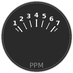
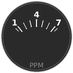
PPM: needles drawn in front; wait after ffmpeg gives up; clearer at 720p
Enigma2 draws plain ePixmaps after all named widgets, so the housing and
screw covered the needles: all four layers are now named widgets, added
bottom to top. ffmpeg's errors go to /tmp/lynx-ppm.log and a failed start
(no sound track) waits 30 s instead of retrying every few seconds. The
box's menus are 1280x720, so the 73 px meter now shows 1, 4 and 7 only,
in bigger numbers.

Claude-Session: https://claude.ai/code/session_01C3QWPBaQSAAeD4ECirSsdL

diff --git a/plugin/LynxRepeaters/screens.py b/plugin/LynxRepeaters/screens.py
@@ -21,6 +21,7 @@ from __future__ import absolute_import, division, print_function
 from .log import log
 
 import re
+import sys
 import time
 
 from enigma import eServiceReference, getDesktop
@@ -176,19 +177,33 @@ class PPMMeter(object):
     def __init__(self):
         from .ppm import Reader
         self.reader = Reader()
-        self.proc, self.url, self.thread = None, None, None
+        self.proc, self.url, self.thread, self.failed_at = None, None, None, None
         import threading
         self.lock = threading.Lock()
+
+    RETRY_S = 30                         # after ffmpeg gives up (no sound track, say)
+    ERRORS = "/tmp/lynx-ppm.log"
 
     def start(self, url):
         if url == self.url and self.proc and self.proc.poll() is None:
             return
+        if url == self.url and self.proc and self.proc.poll() is not None:
+            # It ended by itself: say why once, then wait before trying again.
+            if not self.failed_at:
+                self.failed_at = time.time()
+                log("PPM: ffmpeg stopped (%s); trying again in %d s" % (self._last_error(), self.RETRY_S))
+                with self.lock:
+                    self.reader.rest()
+            if time.time() - self.failed_at < self.RETRY_S:
+                return
         self.stop()
+        self.failed_at = None
         import subprocess
         from .ppm import command
         try:
-            self.proc = subprocess.Popen(command(url), stdout=subprocess.PIPE, stderr=open(os.devnull, "w"),
-                                         preexec_fn=os.setsid)
+            with open(self.ERRORS, "w") as errors:
+                self.proc = subprocess.Popen(command(url), stdout=subprocess.PIPE, stderr=errors,
+                                             preexec_fn=os.setsid)
         except (OSError, ValueError) as e:
             log("PPM: could not start ffmpeg: %s" % e)
             self.proc = None
@@ -207,8 +222,16 @@ class PPMMeter(object):
             with self.lock:
                 self.reader.line(raw.decode("latin-1"))
 
+    def _last_error(self):
+        try:
+            with open(self.ERRORS) as f:
+                lines = [l.strip() for l in f if l.strip()]
+            return lines[-1][:160] if lines else "no message"
+        except (IOError, OSError):
+            return "no message"
+
     def stop(self):
-        proc, self.proc, self.url = self.proc, None, None
+        proc, self.proc, self.url, self.failed_at = self.proc, None, None, None
         if proc and proc.poll() is None:
             import signal as sig
             try:
@@ -853,10 +876,14 @@ def _bar_skin(with_ppm):
     x = 150 if with_ppm else 40
     ppm = ""
     if with_ppm:
-        ppm = ('<ePixmap position="24,10" size="110,110" alphatest="blend" pixmap="%s"/>'
+        # All four layers are named widgets: Enigma2 creates named widgets in
+        # the order the screen adds them, and plain ePixmaps after all of
+        # them, on top (Screen.createGUIScreen). As ePixmaps the housing and
+        # screw hid the needles (1 Nov 2026).
+        ppm = ('<widget name="ppm_housing" position="24,10" size="110,110" alphatest="blend" pixmap="%s"/>'
                '<widget name="ppm_green" position="24,10" size="110,110" alphatest="blend" pixmaps="%s"/>'
                '<widget name="ppm_red" position="24,10" size="110,110" alphatest="blend" pixmaps="%s"/>'
-               '<ePixmap position="24,10" size="110,110" alphatest="blend" pixmap="%s"/>' % (
+               '<widget name="ppm_screw" position="24,10" size="110,110" alphatest="blend" pixmap="%s"/>' % (
                    PPM_PIXMAPS["housing"], ",".join(PPM_PIXMAPS["green"]), ",".join(PPM_PIXMAPS["red"]),
                    PPM_PIXMAPS["screw"]))
     return _scale("""
@@ -884,7 +911,9 @@ class LynxBar(Screen):
     def __init__(self, session, entry, owner=None):
         # The PPM's widgets only when it is shown: its own skin name, so the
         # two layouts are never mixed up.
-        self.with_ppm = bool(cfg.ppm.value and PPM_PIXMAPS)
+        # Python 3 only: the layers rely on the screen keeping the order they
+        # were added in, which Python 2's dictionaries do not.
+        self.with_ppm = bool(cfg.ppm.value and PPM_PIXMAPS and sys.version_info >= (3, 7))
         if self.with_ppm:
             self.skin, self.skinName = BAR_SKIN_PPM, "LynxBarPPM"
         Screen.__init__(self, session)
@@ -926,8 +955,11 @@ class LynxBar(Screen):
         # The PPM: needles at rest until the sound is metered.
         self.meter, self.ppm_shown = None, (None, None)
         if self.with_ppm:
+            from Components.Pixmap import Pixmap
+            self["ppm_housing"] = Pixmap()          # bottom to top, in this order
             self["ppm_green"] = MultiPixmap()
             self["ppm_red"] = MultiPixmap()
+            self["ppm_screw"] = Pixmap()
             self.meter = PPMMeter()
             self.ppm_timer, self._pt = _timer(self._ppm)
             self.onClose.append(self.ppm_timer.stop)

diff --git a/tools/make_ppm.py b/tools/make_ppm.py
@@ -75,12 +75,16 @@ def housing(g):
     d.text((cx, cy + frame - 14 * s), "PPM", font=small, fill=(140, 140, 140, 255), anchor="mm")
     for a in (-HALF_SPAN - MINOR_EXTRA, HALF_SPAN + MINOR_EXTRA):
         line(d, g.point(g.needle - 3 * s, a), g.point(g.needle + 4 * s, a), (255, 255, 255, 255), 1.2 * s)
-    numbers = ImageFont.truetype(FONT_BOLD, int(13 * s))
+    # On a 1280 x 720 menu (73 px) the numbers would be 7 px: make them bigger.
+    numbers = ImageFont.truetype(FONT_BOLD, int((13 if g.size >= 100 else 17) * s))
     for mark in range(1, 8):
         a = scale_angle(mark)
         line(d, g.point(g.needle - 9 * s, a), g.point(g.needle + 4 * s, a), (255, 255, 255, 255),
              (2.2 if mark == 4 else 1.4) * s)
-        d.text(g.point(g.needle + 14 * s, a), str(mark), font=numbers, fill=(255, 255, 255, 255), anchor="mm")
+        if g.size < 100 and mark not in (1, 4, 7):
+            continue                     # too crowded at 73 px: 1, 4 and 7 carry the scale
+        d.text(g.point(g.needle + (14 if g.size >= 100 else 15) * s, a), str(mark), font=numbers,
+               fill=(255, 255, 255, 255), anchor="mm")
     return g.done(img)
 
 

diff --git a/CLAUDE.md b/CLAUDE.md
@@ -20,7 +20,7 @@ British English, metric. No long dashes (use a colon, semicolon, comma, brackets
   - **Every BATC stream (Justin, 23 Oct 2026):** setting `cfg.all_streams` (separate from "show off air", his choice), off by default: every listed BATC stream at the end of the list, live first, offline greyed (OK still tries). `streams.parse()` now keeps offline listed streams with `"live"`; `live_only()` feeds the BATC Live bouquet, `for_call()` (LIVE markers) and the repeater-only "Stream only" rows; a cache without `"live"` counts as live. LIVE column moved left, clear of the scrollbar (it was clipped).
   - **Update streams now (Justin, 23 Oct 2026):** key **0** on the list (and MENU) runs `sync.refresh()` and reports on the status line ("BATC checked at HH:MM: N live", or the error from `sync.last_error`); listeners are now told on failure too. Bottom row hint "0 Update streams  MENU More".
   - **Update check at each start (Justin, 23 Oct 2026):** `update.py` + `LynxUpdater` (screens.py): 2 min after boot (clock fixed first), GitHub API `commits/main` against `version.txt`, which `install.sh` now writes (it downloads the archive of that exact commit). Setting "Lynx updates at start-up": ask (default; 60 s MessageBox), install by itself, do not check; MENU, Check for a newer Lynx now. Installs with install.sh and `LYNX_NO_RESTART=1`, then `TryQuitMainloop(3)` (a shell from Enigma2 could die half way through install.sh's own restart). `deploy.sh` deletes `version.txt`, so a PC copy is never "updated" over. Not yet tried on the box.
-  - **PPM (Justin, 1 Nov 2026):** the Lynx Rx / Apple TV stereo PPM (PPMView.swift geometry) at the left of the Lynx bar, eye at the right; setting `cfg.ppm` (default on). The box decodes sound in hardware, so `PPMMeter` (screens.py) runs **ffmpeg on the box's own stream of what is playing, `http://127.0.0.1:8001/<ref>`** (checked 1 Nov: 376000 bytes in 5 s), audio only, `asetnsamples=96` + `astats` per-channel `Peak_level` + `ametadata print`; `ppm.Reader` runs Lynx Rx's ballistics (PPM 4 = -18 dBFS, 4 dB/division, 1.7 ms attack, 650 ms decay) on each 2 ms block's peak (-18 dBFS tone reads PPM 4.2 to 4.5 through AAC, tested with ffmpeg 6.1). Pictures from `tools/make_ppm.py`: housing, screw, and red and green needles at every degree from -43 to +43 (87 each; 110 px and 73 px), stacked housing, green, red, screw; needles move 20 times a second. **The 8001 stream holds the tuner**, so `watch()` stops the meter (and any stray one, `pkill -f comment=lynx-ppm`) before every tune; session start kills strays too. **On air only:** a BATC stream would need a second connection to BATC. Not yet tried on the box.
+  - **PPM (Justin, 1 Nov 2026):** the Lynx Rx / Apple TV stereo PPM (PPMView.swift geometry) at the left of the Lynx bar, eye at the right; setting `cfg.ppm` (default on). The box decodes sound in hardware, so `PPMMeter` (screens.py) runs **ffmpeg on the box's own stream of what is playing, `http://127.0.0.1:8001/<ref>`** (checked 1 Nov: 376000 bytes in 5 s), audio only, `asetnsamples=96` + `astats` per-channel `Peak_level` + `ametadata print`; `ppm.Reader` runs Lynx Rx's ballistics (PPM 4 = -18 dBFS, 4 dB/division, 1.7 ms attack, 650 ms decay) on each 2 ms block's peak (-18 dBFS tone reads PPM 4.2 to 4.5 through AAC, tested with ffmpeg 6.1). Pictures from `tools/make_ppm.py`: housing, screw, and red and green needles at every degree from -43 to +43 (87 each; 110 px and 73 px), stacked housing, green, red, screw; needles move 20 times a second. **The 8001 stream holds the tuner**, so `watch()` stops the meter (and any stray one, `pkill -f comment=lynx-ppm`) before every tune; session start kills strays too. **On air only:** a BATC stream would need a second connection to BATC. Not yet tried on the box. **First try on the box (1 Nov 2026):** no needles: Enigma2 creates named widgets first (in the order added to the screen) and plain `<ePixmap>`s last, on top (Screen.createGUIScreen), so the housing and screw ePixmaps hid the needles. Now all four layers are named widgets added housing, green, red, screw; PPM on Python 3.7+ only (Python 2 dicts do not keep that order). ffmpeg kept exiting on a silent test card (no sound track, presumably), restarting every ~7 s: its stderr now goes to `/tmp/lynx-ppm.log`, the reason is logged once, and it waits 30 s before trying the same programme again. **The box's menus run at 1280x720** (fb0 virtual size 1280x1440), so the 73 px set is used: its scale now shows only 1, 4 and 7, in bigger numbers.
   - **Namespace bit 15 is polarisation** (Enigma2 frontend.cpp `getHash`): GB3OO at 13 V is `C0AB2E`, at 18 V `C02B2E`. `match_playing()` masks MHz with 0x7FFF (fixed 1 Nov 2026; it never matched 13 V channels).
   - **MER, not SNR, on the bar (Justin, 1 Nov 2026):** the demodulator's figure (Enigma2's SNR dB, the RS6060's Es/N0 estimate from the constellation) is labelled **MER**, as Lynx Rx and the Picotuner do; the margin beside it is unchanged.
   - **Stream-only rows:** BATC streams flagged as repeaters that match no listed repeater (DB0OZ Bremen, Oscar 100 net) go at the end of the Lynx list as "Stream only"; OK and yellow both watch the stream. A UK repeater hidden as off air but streaming shows there too.
